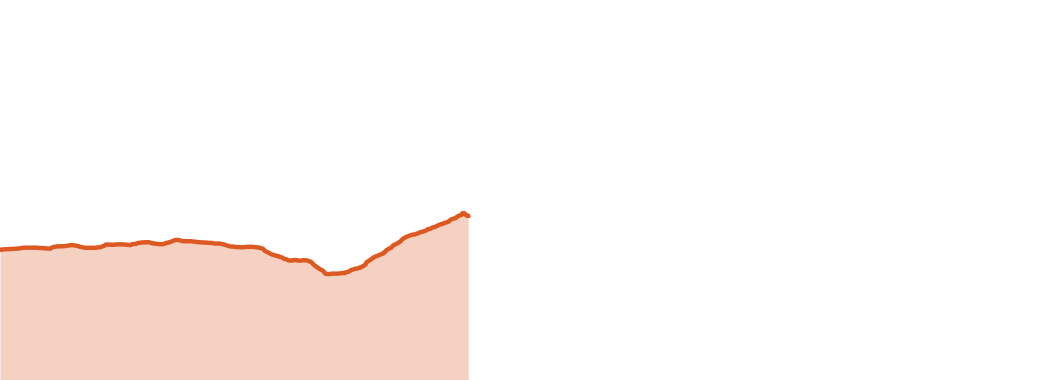
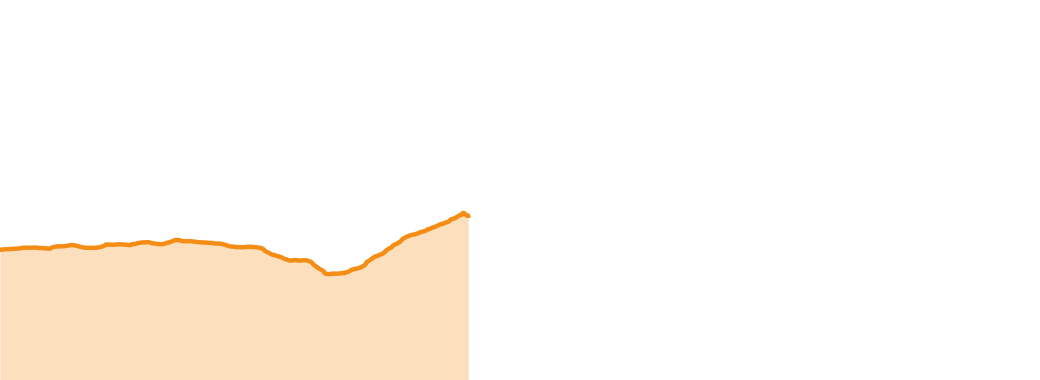
fix: 按天配色改为相邻日高对比，解决 Day 几分不清 (#14)
原色板让上山日沿暖色带平滑渐进、下撤日沿青色带平滑渐进，按行程顺序
相邻的 9 对里有 6 对 CIEDE2000 色差 ΔE < 15，细线上基本分不出段界。

改成同族内明暗交替、色相跳开，判据为相邻两天 ΔE >= 28、任意两天
ΔE >= 15。新色板 9 对相邻最低 28.6、全局最低 15.4；红绿色盲模拟下
相邻最低也从 12.8 提到 18.6。冷暖分族保留，地图上并排的上山线与
下撤线仍能一眼分辨方向。

- scripts/day_colors.py  DAY_COLORS 十个取值与选色约束的 docstring
- scripts/make_map.py    图例「海拔适应点」方块改用 DAY_COLORS[6]，
                         与图上 Nangkartshang 的紫色方块一致（原为 [3]）
- report/sections/ext-route.html  详图 figcaption 的配色说明
- AGENTS.md / TECHSTACK.md        常量名订正为 OPTION_LINE
- assets/*.png                    重跑 make_profile.py 与 make_map.py

143 passed；build_report.py 输出 12.6 MB。

Changed region(s): [[0.0, 0.6079, 0.3692, 0.7237], [0.3692, 0.5789, 0.4308, 0.6658], [0.4308, 0.55, 0.4615, 0.5789]]

diff --git a/report/sections/ext-route.html b/report/sections/ext-route.html
@@ -6,7 +6,7 @@
 
 <figure class="trekmap">
   <img src="{{IMG_TREK_MAP}}" alt="Lukla 到 EBC 徒步详图">
-  <figcaption>灰线是这一带全部可走线路（取自 KMZ 实测的大环线轨迹，记录者实走 183.6 km，翻 Kongma La、Cho La、Renjo La 三个山口并绕行 Gokyo 与 Thame）；彩色是我们的计划路线，暖色上山日、紫色海拔适应日、青色下撤日，上山与下撤走同一走廊所以两条线并排画；方块是海拔适应点（Nangkartshang 5,080m）。底图 OpenTopoMap（<a href="#13-map-apis">sources/13</a>）。</figcaption>
+  <figcaption>灰线是这一带全部可走线路（取自 KMZ 实测的大环线轨迹，记录者实走 183.6 km，翻 Kongma La、Cho La、Renjo La 三个山口并绕行 Gokyo 与 Thame）；彩色是我们的计划路线，暖色上山日、紫色海拔适应日、冷色下撤日，相邻两天换一个明显不同的颜色，上山与下撤走同一走廊所以两条线并排画；方块是海拔适应点（Nangkartshang 5,080m）。底图 OpenTopoMap（<a href="#13-map-apis">sources/13</a>）。</figcaption>
 </figure>
 
 <figure>

diff --git a/scripts/day_colors.py b/scripts/day_colors.py
@@ -1,16 +1,22 @@
 """按天配色：地形图与海拔剖面图共用这一份，同一天在两张图里是同一个颜色。
 
 Day 1（加都）与 Day 12（转场回加都）没有徒步轨迹，不在这份配色表里。
-配色按语义分三族，而不是给 10 个徒步日各配一个孤立的颜色：
 
-- 上山日用暖色渐进（琥珀→橙→红→深绛），颜色本身读出「一天天往上走」
+第一约束是**相邻两天必须一眼分得开**：读者在地图上顺着一条线往前走、在剖面图上从左往右扫，
+判断「这一段是 Day 几」靠的是与前后两段的色差，Day N 徽标只是复核手段。因此同族内的
+相邻天在明度上交替（亮—暗—亮—暗），色相也跳开，而不是沿色带平滑过渡。定量判据：
+按行程顺序相邻的两天 CIEDE2000 色差 ΔE >= 28，任意两天 ΔE >= 15。
+
+在这个约束之上保留冷暖分族，让地图上并排的两条线一眼看出哪条在上山、哪条在下撤：
+
+- 上山日用暖色（金黄、赭褐、橙、正红、玫红、深绛）
 - 海拔适应日（Dingboche）用紫色，它不推进行程、只上去再下来，是另一类日子
-- 下撤日用青色族，读出「往回走」
+- 下撤日用冷色（青绿、墨绿、钴蓝）
 
 上山日与下撤日走同一条走廊，在地图上把两族分别向两侧平移，两条都看得见。
 
 选色约束来自 OpenTopoMap 底图：底图用蓝画河流冰川、用黄绿到橙红棕的色带画海拔，
-所以详图先把底图压成低饱和浅色（见 scripts/make_map.py 的 TREK_BASEMAP_MUTE），
+所以详图先把底图压成低饱和浅色（见 scripts/make_map.py 里 mute() 的参数），
 腾出色相空间给这 10 个颜色。
 """
 
@@ -19,16 +25,16 @@ ACCLIMATIZE_DAYS = (6,)
 DESCENT_DAYS = (9, 10, 11)
 
 DAY_COLORS = {
-    2: (242, 169, 59),    # 琥珀
-    3: (232, 128, 44),
-    4: (220, 90, 34),
-    5: (201, 59, 34),
-    7: (176, 31, 38),
-    8: (140, 18, 48),     # 深绛
-    6: (107, 63, 168),    # 紫：海拔适应日（Dingboche）
-    9: (23, 162, 162),    # 青：下撤日
-    10: (15, 122, 133),
-    11: (11, 85, 102),
+    2: (245, 183, 20),    # 亮金黄
+    3: (120, 70, 28),     # 深赭褐
+    4: (245, 140, 20),    # 亮橙
+    5: (178, 26, 34),     # 深正红
+    7: (233, 92, 148),    # 亮玫红
+    8: (135, 20, 58),     # 深绛
+    6: (98, 52, 168),     # 深紫：海拔适应日（Dingboche）
+    9: (0, 186, 178),     # 亮青绿：下撤日
+    10: (14, 92, 66),     # 深墨绿
+    11: (48, 136, 228),   # 亮钴蓝
 }
 
 # 「可走的线路」底层：大环线全部导航线画成近黑，退到计划路线之后，

diff --git a/scripts/make_map.py b/scripts/make_map.py
@@ -136,7 +136,7 @@ def _legend_trek(draw, font):
             for j, d in enumerate(days):
                 draw.line([(lx + 4 + j * seg, y), (lx + 4 + (j + 1) * seg, y)], fill=DAY_COLORS[d], width=7)
         elif color == "square":
-            draw.rectangle([lx + 14, y - 8, lx + 30, y + 8], fill=DAY_COLORS[3], outline=WHITE, width=2)
+            draw.rectangle([lx + 14, y - 8, lx + 30, y + 8], fill=DAY_COLORS[6], outline=WHITE, width=2)
         else:
             draw.line([(lx + 4, y), (lx + 48, y)], fill=color, width=7)
         draw.text((lx + 60, y), text, font=font, anchor="lm", fill=INK)

diff --git a/AGENTS.md b/AGENTS.md
@@ -32,7 +32,7 @@
 | 加一张 CSV 驱动的表 | 新建 `data/<名>.csv` + `scripts/reportgen/<领域>.py` 的 `tokens()` + 引用它的详解块（配方见 PATTERNS.md） | `build_report.py` |
 | 加一个 token | `scripts/reportgen/<领域>.py` 的 `tokens()` 返回值加一个键，并在某个 section 里写 `{{该键}}`（供需必须同时改，闸门双向校验） | `build_report.py` |
 | 改样式 | `report/styles/` 下对应那一个：`base.css` 版式与字号、`tables.css` 表格、`components.css` 警示块与图片与代码与链接与回链、`appendix.css` 出处层、`print.css` 打印 | `build_report.py` |
-| 改地图配色 | `scripts/day_colors.py` 顶部的按天色板 `DAY_COLORS` 与可走线路的 `OPTION_GRAY`，海拔剖面图与地形图共用；只调单张图改 `scripts/make_map.py` 的 per-figure 参数 | `make_map.py` 再 `build_report.py` |
+| 改地图配色 | `scripts/day_colors.py` 顶部的按天色板 `DAY_COLORS` 与可走线路的 `OPTION_LINE`，海拔剖面图与地形图共用；只调单张图改 `scripts/make_map.py` 的 per-figure 参数 | `make_map.py` 再 `build_report.py` |
 | 改海拔剖面 | `scripts/make_profile.py`：全程图在 `full_profile()`；表格内嵌的逐日小图在 `scripts/profile_thumbs.py` 的 `day_thumbnail()` | `make_profile.py` 再 `build_report.py` |
 | 换轨迹来源 | `assets/ebc-loop.kml`（KMZ 大环线）或 `assets/Everest_Base_Camp.gpx`，按 DEVFLOW.md 的换轨迹来源流程逐步走 | 见 DEVFLOW.md |
 | 改村庄坐标或文献海拔 | `scripts/route_points.py`（`day_tracks.py`、`make_profile.py`、`make_map.py` 共用） | `day_tracks.py` → `make_profile.py` + `make_map.py` 再 `build_report.py` |

diff --git a/TECHSTACK.md b/TECHSTACK.md
@@ -84,7 +84,7 @@ scripts/
   osm_graph.py              从 Overpass way 元素建无向图 · Dijkstra 最短路 · 最近节点
   gap_legs.py               补测 4 段缺口路线（OSM 步道 + SRTM30m）→ data/gap-legs.json
   day_tracks.py             装配 10 天逐日轨迹 → data/day-tracks.json + data/day-track-stats.csv
-  day_colors.py             按天色板与 OPTION_GRAY，剖面图与地形图共用
+  day_colors.py             按天色板与 OPTION_LINE，剖面图与地形图共用
   tiles.py                  瓦片抓取与绘图原语，两张地图共用
   http_fetch.py             curl 子进程封装（get_bytes/post_text），瓦片与 OSM/高程抓取共用
   profile_thumbs.py         表格内嵌用的逐日剖面小图
